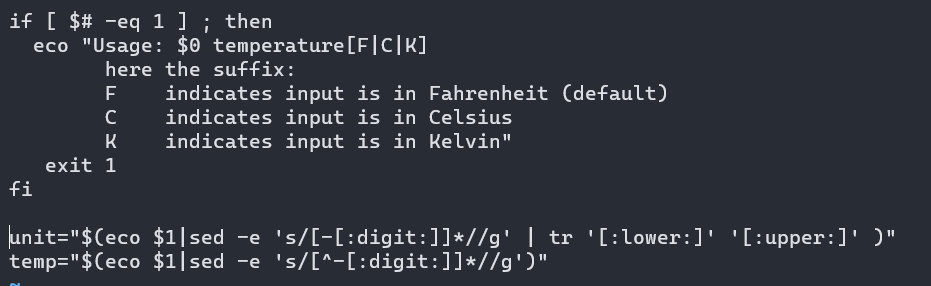
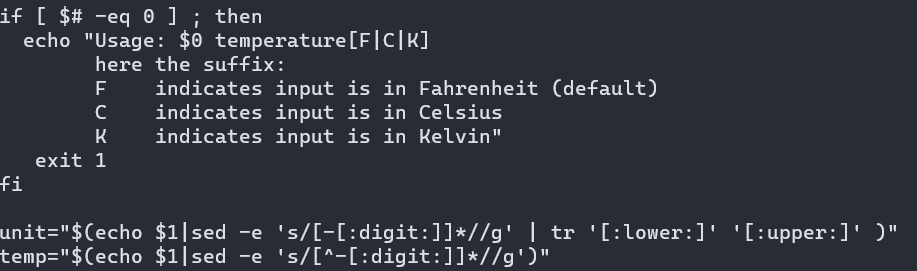
Updated Part 2 to include eco and the 1 replacement

diff --git a/README.md b/README.md
@@ -8,6 +8,8 @@
 ## Part 2 - Replace
 1. Replace V with C `:%s/V/C/g`
 2. Replace numbs with :digit: `:%s/numbs/:digit:/g`
+3. Replace echo with echo: `:%s/ech/echo/g`
+4. Replace the first 1 with 0: `:s/1/0`
 ![Part 2](images/part_2.png)
 
 ## Part 3 - journalctl
